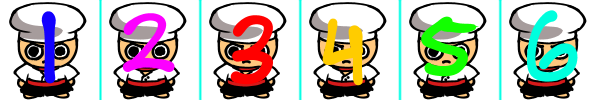
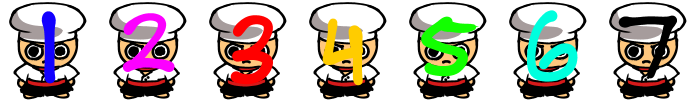
Added more images and fixed the walking animation. Need to fix alpha problem.

diff --git a/Player.py b/Player.py
@@ -39,11 +39,9 @@ class Player(PS.Sprite):
         self.x = 0
         self.y = 0
         self.face = 'd'
-        #if not Player.IMAGES_FRONT:
         self.load_images()
         self.time = 0.0
         self.frame = 0
-        #self.update_image(Player.IMAGES_FRONT)
 
 
     def get_face(self):
@@ -55,31 +53,36 @@ class Player(PS.Sprite):
         dist = self.speed # distance moved in 1 frame, try changing it to 5
         if key[PG.K_DOWN]: # down key
             self.y += dist*interval# move down
-            self.image = self.IMAGES_FRONT[0]
             self.rect = self.image.get_rect()
             self.face = 'd'
         elif key[PG.K_UP]: # up key
             self.y -= dist*interval # move up
-            self.image = self.IMAGES_BACK[0]
             self.rect = self.image.get_rect()
             self.face = 'u'
-        if key[PG.K_RIGHT]: # right key
+        elif key[PG.K_RIGHT]: # right key
             self.x += dist*interval # move right
-            self.image = self.IMAGES_RIGHT[0]
             self.rect = self.image.get_rect()
             self.face = 'r'
         elif key[PG.K_LEFT]: # left key
             self.x -= dist*interval# move left
-            self.image = self.IMAGES_LEFT[0]
             self.rect = self.image.get_rect()
             self.face = 'l'
-
+        else: #ds = down 'standing' (not moving)
+            if self.face == 'd':
+                self.face = 'ds'
+            if self.face == 'u':
+                self.face = 'us'
+            if self.face == 'r':
+                self.face = 'rs'
+            if self.face == 'l':
+                self.face = 'ls'
     def draw(self, screen):
         """ Draw on surface """
         self.check_boundary(screen)
         # blit yourself at your current position
         screen.blit(self.image, (self.x, self.y))
-
+        PD.flip()
+        
     def check_boundary(self, screen):
         if self.x < 0:
             PM.music.stop()
@@ -102,7 +105,7 @@ class Player(PS.Sprite):
             PM.music.play(0)
             PM.music.fadeout(4500)
         
-    '''def update(self, delta):
+    def update(self, delta):
         PLAYER_IMAGE_LENGTH = 12 #all player sprite has 12 frames
         #update time
         self.time = self.time + delta
@@ -111,25 +114,56 @@ class Player(PS.Sprite):
         #update frame?
         frame = int(self.time / (Player.CYCLE / PLAYER_IMAGE_LENGTH))
         if frame != self.frame:
+                self.frame = frame
+                if (self.face == 'r'):
+                    self.update_image(self.IMAGES_RIGHT)
+                elif (self.face == 'u'):
+                    self.update_image(self.IMAGES_BACK)
+                elif (self.face == 'l'):
+                    self.update_image(self.IMAGES_LEFT)
+                elif (self.face == 'd'):
+                    self.update_image(self.IMAGES_FRONT)
+                elif(self.face == 'rs'):
+                    self.image = self.IMAGES_RIGHT[0]
+                elif(self.face == 'us'):
+                    self.image = self.IMAGES_BACK[0]
+                elif(self.face == 'ls'):
+                    self.image = self.IMAGES_LEFT[0]
+                elif(self.face == 'ds'):
+                    self.image = self.IMAGES_FRONT[0]
+                else:
+                    self.image = PI.load("FPGraphics/MC/MCwalk/MCFront.png").convert_alpha()
+        """if frame != self.frame:
+                self.frame = frame
+                if (self.face == 'r'):
+                    self.update_image(self.IMAGES_RIGHT)
+                elif (self.face == 'u'):
+                    self.update_image(self.IMAGES_BACK)
+                elif (self.face == 'l'):
+                    self.update_image(self.IMAGES_LEFT)
+                else:
+                    self.update_image(self.IMAGES_FRONT)"""
+        """if frame != self.frame:
+            print "frame: " + repr(frame)
             self.frame = frame
-            self.update_image(Player.IMAGES_FRONT)'''
+            self.update_image(Player.IMAGES_FRONT)"""
 
     def load_images_helper(self, imageArray, sheet):
-        key = sheet.get_at((0,0))
+        #key = sheet.get_at((0,0))
         #hereeeeee
         for i in range(3,7):
-            surface = PG.Surface((100, 100)).convert_alpha()
-            surface.set_colorkey(key)
+            surface = PG.Surface((100, 100))
+            #surface.set_colorkey(key)
             surface.blit(sheet, (0,0), (i*100, 0, 100, 100))
             imageArray.append(surface)
         for i in range(5,0,-1):
-            surface = PG.Surface((100, 100)).convert_alpha()
-            surface.set_colorkey(key)
+            surface = PG.Surface((100, 100))
+            #surface.set_colorkey(key)
             surface.blit(sheet, (0,0), (i*100, 0, 100, 100))
             imageArray.append(surface)
         for i in range(0,3):
-            surface = PG.Surface((100, 100)).convert_alpha()
-            surface.set_colorkey(key)
+            surface = PG.Surface((100, 100))
+            #surface.set_colorkey(key)
             surface.blit(sheet, (0,0), (i*100, 0, 100, 100))
             imageArray.append(surface)
         return imageArray
@@ -139,10 +173,10 @@ class Player(PS.Sprite):
         Player.IMAGES_LEFT = []
         Player.IMAGES_FRONT = []
         Player.IMAGES_BACK = []
-        sheetR = PI.load("MCRightWalk.png").convert()
-        sheetL = PI.load("MCLeftWalk.png").convert()
-        sheetF = PI.load("MCFrontWalk.png").convert()
-        sheetB = PI.load("MCBackWalk.png").convert()
+        sheetR = PI.load("FPGraphics/MC/MCwalk/MCRightWalk.png").convert_alpha()
+        sheetL = PI.load("FPGraphics/MC/MCwalk/MCLeftWalk.png").convert_alpha()
+        sheetF = PI.load("FPGraphics/MC/MCwalk/MCFrontWalk.png").convert_alpha()
+        sheetB = PI.load("FPGraphics/MC/MCwalk/MCBackWalk.png").convert_alpha()
         Player.IMAGES_RIGHT = self.load_images_helper(Player.IMAGES_RIGHT, sheetR)
         Player.IMAGES_LEFT = self.load_images_helper(Player.IMAGES_LEFT, sheetL)
         Player.IMAGES_FRONT = self.load_images_helper(Player.IMAGES_FRONT, sheetF)

diff --git a/Setup.py b/Setup.py
@@ -126,7 +126,8 @@ class Game(object):
             PD.update() # update the screen
             
     def update(self, player, delta):
-            PLAYER_IMAGE_LENGTH = 12 #all player sprite has 12 frames
+            player.update(delta)
+            """PLAYER_IMAGE_LENGTH = 12 #all player sprite has 12 frames
             #update time
             player.time = player.time + delta
             if player.time > Player.CYCLE:
@@ -142,7 +143,7 @@ class Game(object):
                 elif (player.face == 'l'):
                     player.update_image(Player.IMAGES_LEFT)
                 else:
-                    player.update_image(Player.IMAGES_FRONT)
+                    player.update_image(Player.IMAGES_FRONT)"""
 
     def handleEvents(self):
         for event in PE.get():
